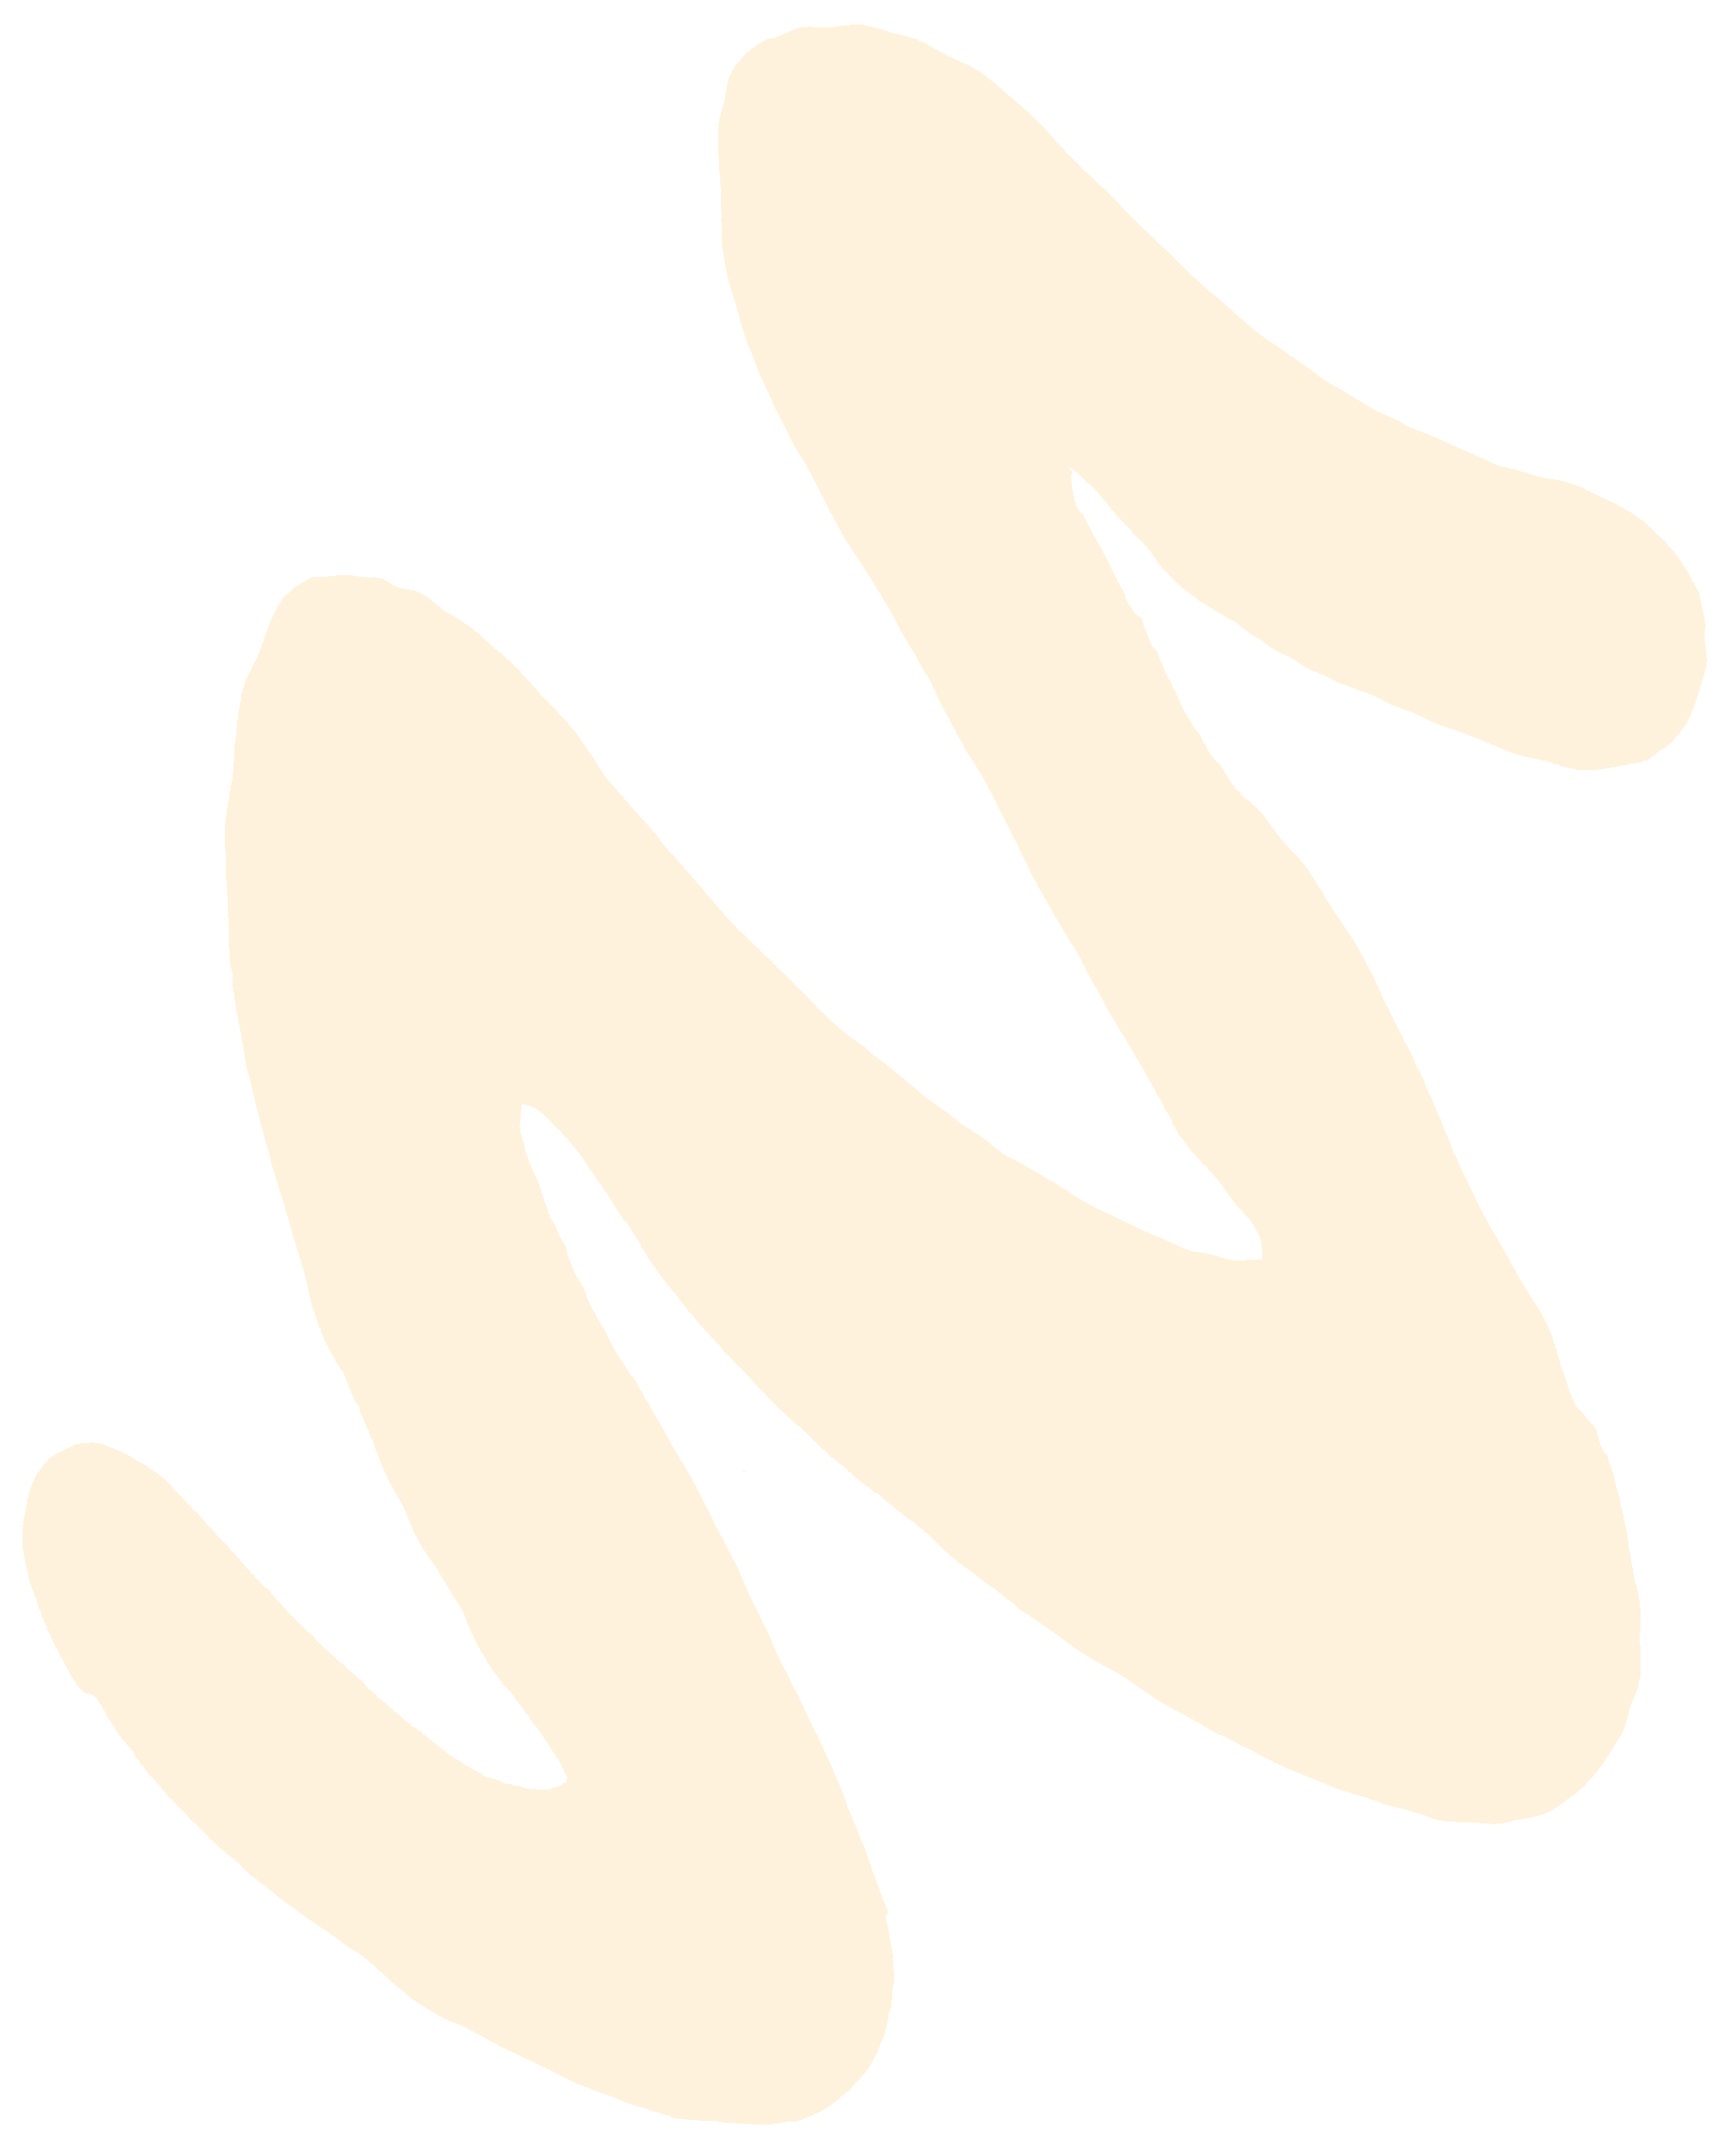
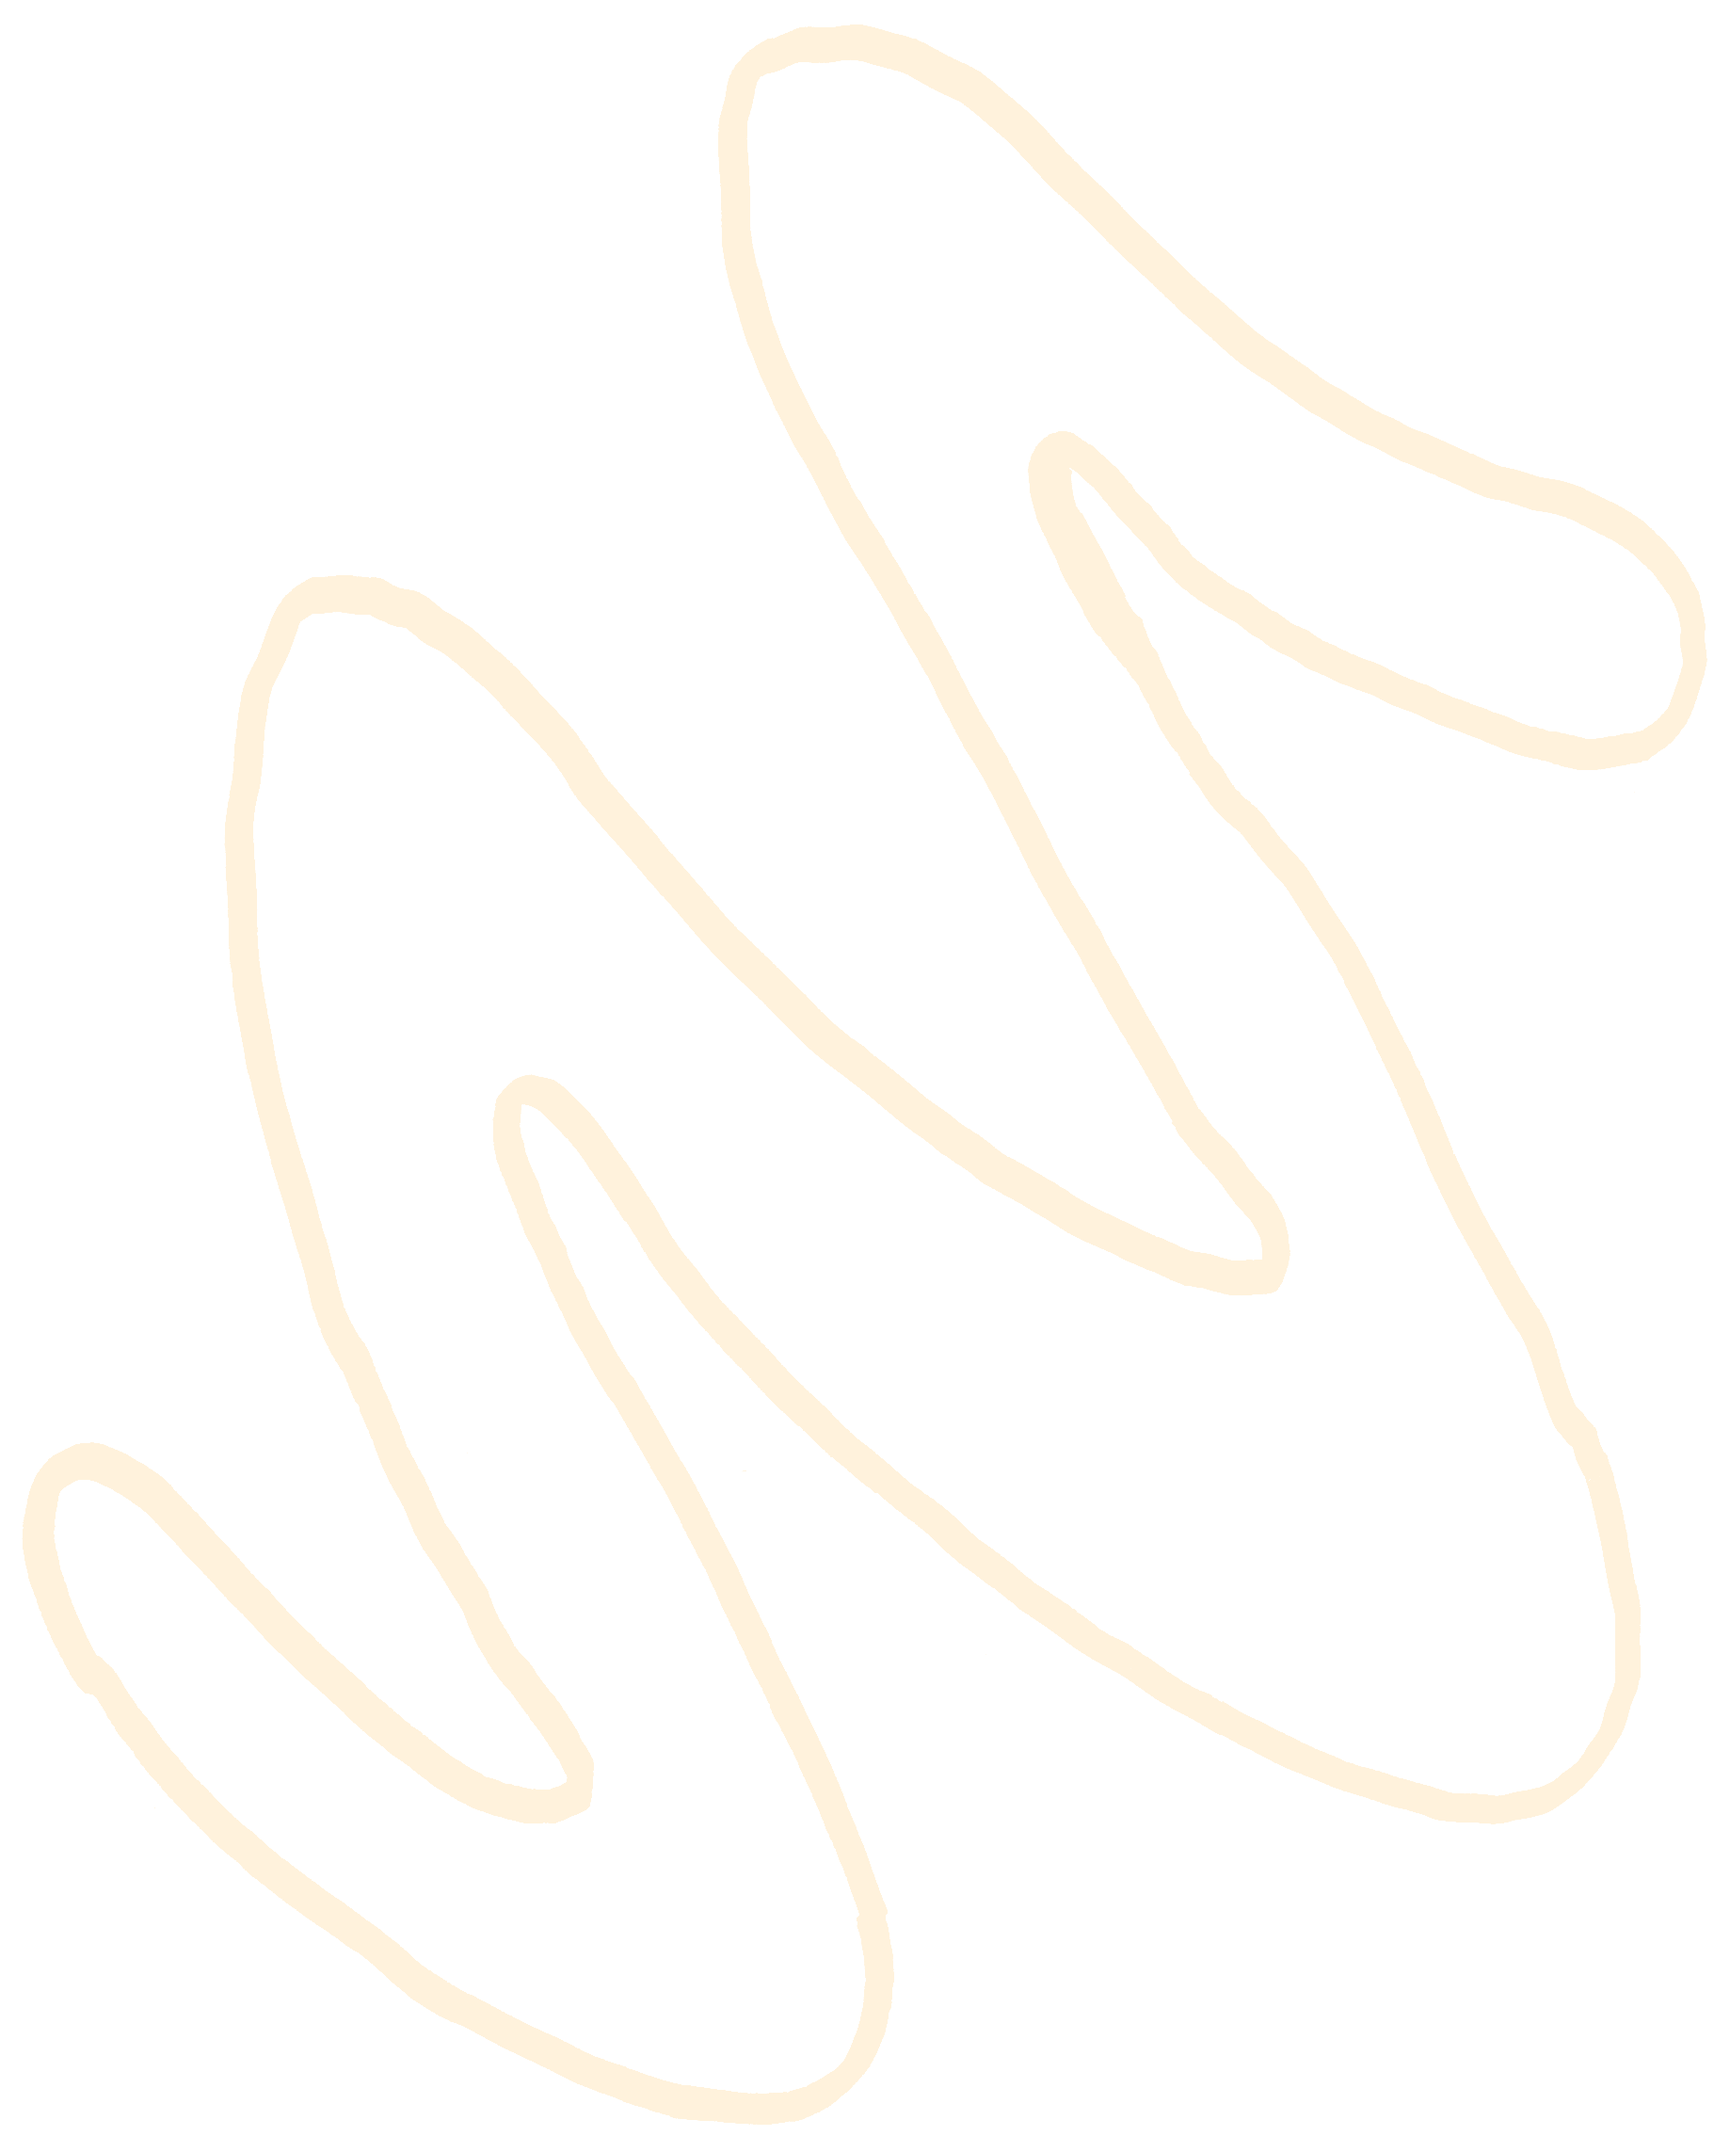
add form

diff --git a/src/components/FormsContainer.tsx b/src/components/FormsContainer.tsx
@@ -14,7 +14,7 @@ function FormsContainer() {
 
   const { scrollY } = useScroll();
   const formOneRotation = useTransform(scrollY, (latest) => {
-    return latest / 50;
+    return latest / 100;
   });
   const formTwoRotation = useTransform(scrollY, (latest) => {
     return latest / 35;
@@ -29,60 +29,40 @@ function FormsContainer() {
     if (ref.current == null) {
       return 0;
     }
-    return (
-      latest / 8 -
-      ref.current.offsetTop / 8 +
-      ref.current.getBoundingClientRect().height / 16
-    );
+    return latest / 3;
   });
 
   return (
     <motion.div
-      className="absolute inset-0 blur-sm"
+      className="absolute inset-0 -z-10 overflow-hidden"
       ref={ref}
       transition={{ type: 'spring' }}
       style={{ translateY }}
     >
       <motion.div
-        className="absolute bottom-96 opacity-30 origin-center -right-4 sm:bottom-44 sm:right-12 lg:bottom-40 lg:-right-12"
+        className="absolute bottom-[45vh] origin-center -right-4"
         style={{ rotateZ: formOneRotation }}
       >
-        <Image
-          alt="forme 1"
-          className="h-auto w-40 sm:w-60 lg:w-72"
-          src={Form1}
-        />
+        <Image alt="forme 1" className="h-auto w-60" src={Form1} />
       </motion.div>
       <motion.div
-        className="absolute left-4 opacity-30 origin-center top-[140vh] sm:left-10 sm:top-[calc(100vh+50px)] lg:left-20 lg:top-[calc(100vh-120px)]"
+        className="absolute -left-4 origin-center top-[60vh]"
         style={{ rotateZ: formTwoRotation }}
       >
-        <Image
-          alt="forme 2"
-          className="h-auto w-40 sm:w-60 lg:w-72"
-          src={Form2}
-        />
+        <Image alt="forme 2" className="h-auto w-60" src={Form2} />
       </motion.div>
-      <motion.div
-        className="absolute opacity-30 origin-center right-4 top-[90vh] sm:right-24 sm:top-[calc(105vh)] lg:right-44 lg:top-[calc(100vh-32px)]"
+      {/* <motion.div
+        className="absolute origin-center -right-16 top-[50vh]"
         style={{ rotateZ: formThreeRotation }}
       >
-        <Image
-          alt="forme 3"
-          className="h-auto w-40 sm:w-60 lg:w-72"
-          src={Form3}
-        />
-      </motion.div>
-      <motion.div
-        className="absolute bottom-[500px] left-4 opacity-30 origin-center sm:bottom-64 sm:left-32 lg:bottom-20 lg:left-32"
+        <Image alt="forme 3" className="h-auto w-60" src={Form3} />
+      </motion.div> */}
+      {/* <motion.div
+        className="absolute origin-center bottom-[90vh] -left-4"
         style={{ rotateZ: formFourRotation }}
       >
-        <Image
-          alt="forme 4"
-          className="h-auto w-40 sm:w-60 lg:w-72"
-          src={Form4}
-        />
-      </motion.div>
+        <Image alt="forme 4" className="h-auto w-60" src={Form4} />
+      </motion.div> */}
     </motion.div>
   );
 }

diff --git a/src/components/Prestations.tsx b/src/components/Prestations.tsx
@@ -105,7 +105,7 @@ function Prestations() {
           style={{ translateY: presentationTranslateY }}
           transition={{ type: 'spring' }}
         >
-          <Grid className="gap-y-12 pb-48 sm:gap-y-16 lg:gap-y-16">
+          <Grid className="gap-y-12 pb-48 sm:gap-y-16 lg:gap-y-16 z-50">
             {PRESTATIONS.map((prestation) => (
               <PrestationCard
                 className="col-span-4 col-start-2 sm:col-span-4 sm:col-start-auto"

diff --git a/src/app/(front)/page.tsx b/src/app/(front)/page.tsx
@@ -24,10 +24,11 @@ export default async function Home({ searchParams: { drawer } }: Props) {
       <PageContainer
         drawer={drawer}
         header={
-          <div className="relative bg-darker">
+          <div className="relative">
             <HomeHeader />
             <Prestations />
             <FormsContainer />
+            <div className="bg-darker absolute inset-0 -z-20" />
           </div>
         }
         footer={
